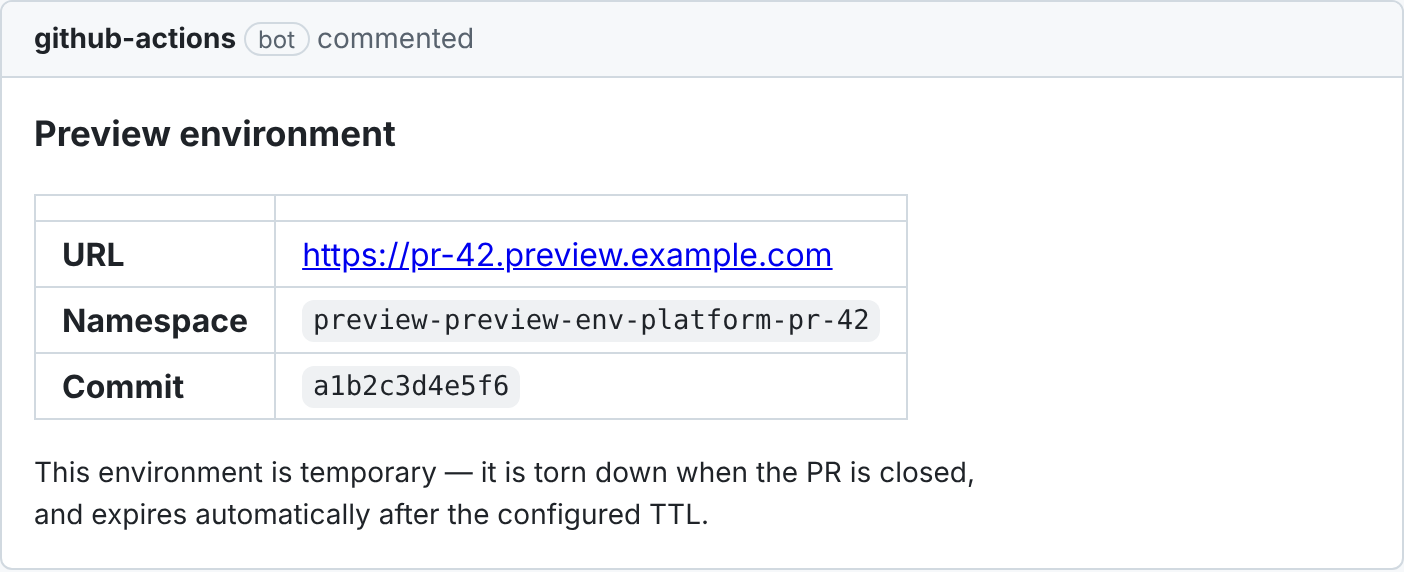
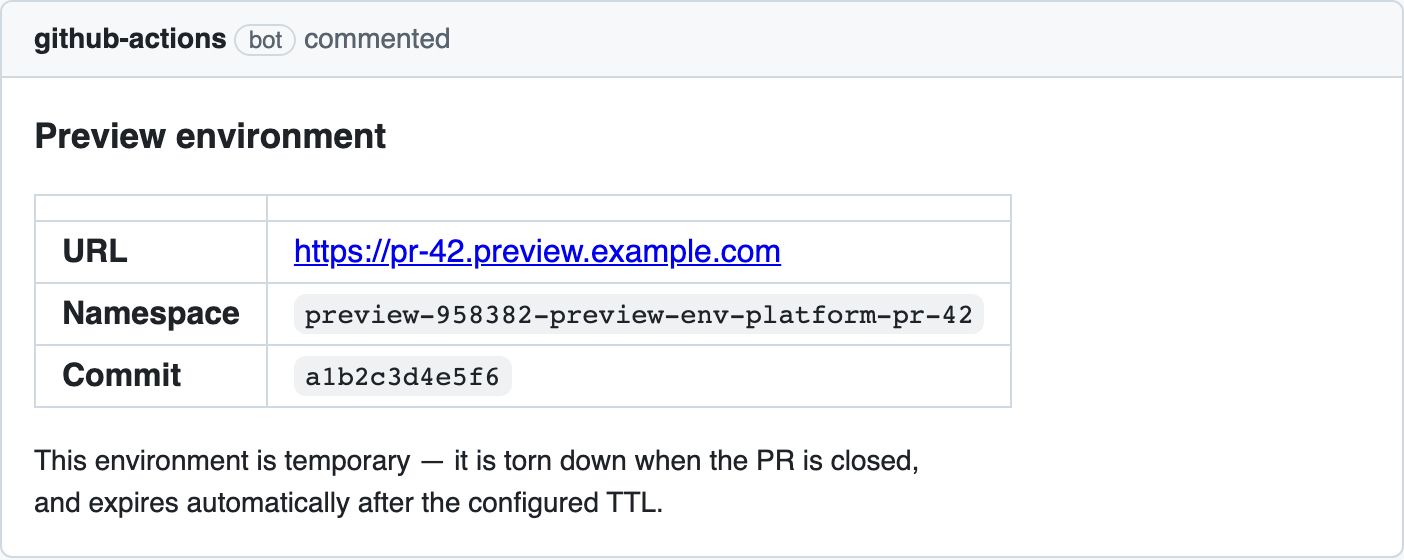
docs: reflect the owner fragment in namespace examples and screenshots

diff --git a/docs/architecture.md b/docs/architecture.md
@@ -45,7 +45,7 @@ PR opened / pushed
 
 PR closed / merged
   └─ teardown.yaml
-       previewctl teardown → kubectl delete namespace preview-<repo>-pr-<N>
+       previewctl teardown → kubectl delete namespace preview-<owner>-<repo>-pr-<N>
 
 Every hour, in the cluster
   └─ CronJob previewctl-system/preview-cleanup
@@ -58,7 +58,7 @@ Every hour, in the cluster
 
 `previewctl render` writes an overlay that points back at `k8s/base` and:
 
-- sets `namespace: preview-<repo>-pr-<N>` on every object and includes a
+- sets `namespace: preview-<owner>-<repo>-pr-<N>` on every object and includes a
   `namespace.yaml`, so `kubectl apply -k` creates the namespace itself;
 - retags the image: `--image` must be the base name (`preview-app`) and
   `--new-name` the registry path, because kustomize only rewrites images
@@ -79,14 +79,16 @@ another.
 
 ## Naming
 
-`naming.namespace_for_pr(repo, pr)` returns `preview-<repo name>-pr-<N>`:
+`naming.namespace_for_pr(repo, pr)` returns
+`preview-<owner fragment>-<repo name>-pr-<N>`:
 
-- only the repository name is used, not the owner (`octocat/demo` →
-  `preview-demo-pr-7`);
-- the name is lowercased and anything outside `[a-z0-9-]` collapses to a
-  single `-`;
+- the owner fragment is the first 6 hex characters of the SHA-1 hash of the
+  repository owner, so two repositories with the same name under different
+  owners never collide (`octocat/demo` → `preview-cfffe7-demo-pr-7`);
+- the repo name is lowercased and anything outside `[a-z0-9-]` collapses to
+  a single `-`;
 - the result is a valid DNS-1123 label (≤ 63 characters). Long repository
-  names are truncated, never the `-pr-<N>` suffix.
+  names are truncated, never the owner fragment or the `-pr-<N>` suffix.
 
 The `preview-` prefix is load-bearing: `kube.delete_namespace` refuses any
 name without it, and the cleanup admission policy checks it too.
@@ -186,8 +188,6 @@ The boundary for the cleanup identity, from the outside in:
 ## Known limitations
 
 - **TTL counts from first deploy, not last activity** (see above).
-- **Namespace names ignore the repository owner.** Two repositories with
-  the same name deploying into one cluster share namespaces.
 - **The deployer can delete any namespace.** Its RBAC allows it; only
   previewctl's prefix check stops it. The cleanup identity has an
   admission policy for this, the deployer does not yet.

diff --git a/docs/local-e2e.md b/docs/local-e2e.md
@@ -41,7 +41,7 @@ previewctl render \
   --out rendered/pr-7
 ```
 
-This prints the namespace (`preview-demo-pr-7`), the host
+This prints the namespace (`preview-cfffe7-demo-pr-7`), the host
 (`pr-7.preview.localtest.me`), and writes `rendered/pr-7/kustomization.yaml`
 plus the `rendered/pr-7/namespace.yaml` it references (so `kubectl apply -k`
 creates the labelled namespace itself).
@@ -60,8 +60,8 @@ Then apply for real:
 
 ```bash
 kubectl apply -k rendered/pr-7
-kubectl -n preview-demo-pr-7 rollout status deployment/app --timeout=120s
-kubectl port-forward -n preview-demo-pr-7 svc/app 8080:80
+kubectl -n preview-cfffe7-demo-pr-7 rollout status deployment/app --timeout=120s
+kubectl port-forward -n preview-cfffe7-demo-pr-7 svc/app 8080:80
 # → curl localhost:8080   "hello from a preview environment (version=dev)"
 ```
 
@@ -111,15 +111,15 @@ so bring PR 7 back (step 5 removed it), wait a minute, create PR 8, and
 use a TTL between the two ages:
 
 ```bash
-kubectl wait --for=delete namespace/preview-demo-pr-7 --timeout=120s
+kubectl wait --for=delete namespace/preview-cfffe7-demo-pr-7 --timeout=120s
 kubectl apply -k rendered/pr-7
 sleep 60
 previewctl render --repo octocat/demo --pr 8 --image preview-app --tag pr-7 \
   --base ./k8s/base --domain preview.localtest.me --out rendered/pr-8
 kubectl apply -k rendered/pr-8
 kubectl get namespaces -l preview.env/platform=true   # pr-7 is ~1m older than pr-8
-previewctl cleanup --ttl 45s --dry-run   # would delete preview-demo-pr-7 only
-previewctl cleanup --ttl 45s             # deleted preview-demo-pr-7
+previewctl cleanup --ttl 45s --dry-run   # would delete preview-cfffe7-demo-pr-7 only
+previewctl cleanup --ttl 45s             # deleted preview-cfffe7-demo-pr-7
 kubectl get namespaces -l preview.env/platform=true   # pr-8 still Active
 ```
 

diff --git a/CHANGELOG.md b/CHANGELOG.md
@@ -12,7 +12,8 @@ Actions, with an in-cluster safety net.
 ### Added
 
 - `previewctl`, a stdlib-only Python CLI:
-  - `name`: DNS-1123-safe namespace `preview-<repo>-pr-<N>` for a PR.
+  - `name`: DNS-1123-safe namespace `preview-<owner fragment>-<repo>-pr-<N>`
+    for a PR.
   - `render`: per-PR Kustomize overlay (namespace, image retag, platform
     labels, ingress host) plus the labelled `namespace.yaml` it applies.
   - `comment`: one preview-URL comment per PR, found by an HTML marker and
@@ -40,8 +41,8 @@ Actions, with an in-cluster safety net.
 ### Known limitations
 
 See [docs/architecture.md](docs/architecture.md#known-limitations): the
-TTL counts from first deploy rather than last activity, namespace names
-ignore the repository owner, the deployer identity has no admission guard,
-fork PRs get no preview, and PR comment lookup reads one page.
+TTL counts from first deploy rather than last activity, the deployer
+identity has no admission guard, fork PRs get no preview, and PR comment
+lookup reads one page.
 
 [0.1.0]: https://github.com/tenalisriharsha/preview-env-platform/releases/tag/v0.1.0

diff --git a/README.md b/README.md
@@ -88,7 +88,7 @@ Locally, no cluster needed:
 ```bash
 python3 -m venv .venv && source .venv/bin/activate
 pip install -e .[dev]
-previewctl name --repo octocat/demo --pr 7          # preview-demo-pr-7
+previewctl name --repo octocat/demo --pr 7          # preview-cfffe7-demo-pr-7
 previewctl render --repo octocat/demo --pr 7 --image preview-app \
   --base ./k8s/base --out rendered/pr-7
 kubectl kustomize rendered/pr-7                      # the manifests a PR gets
